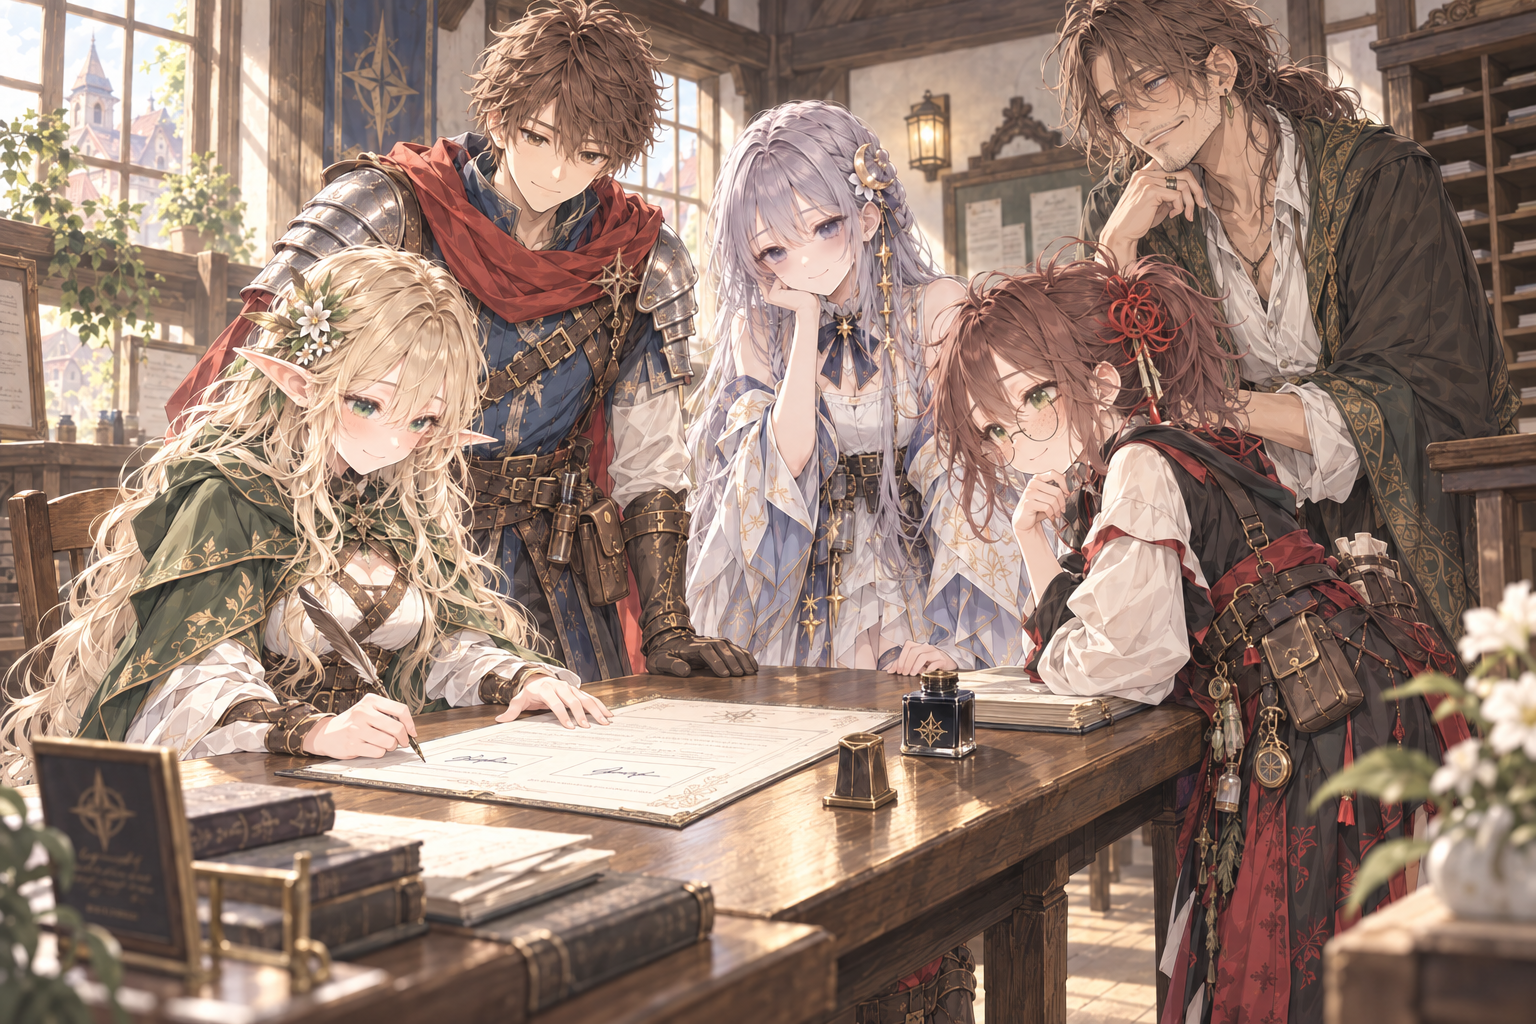
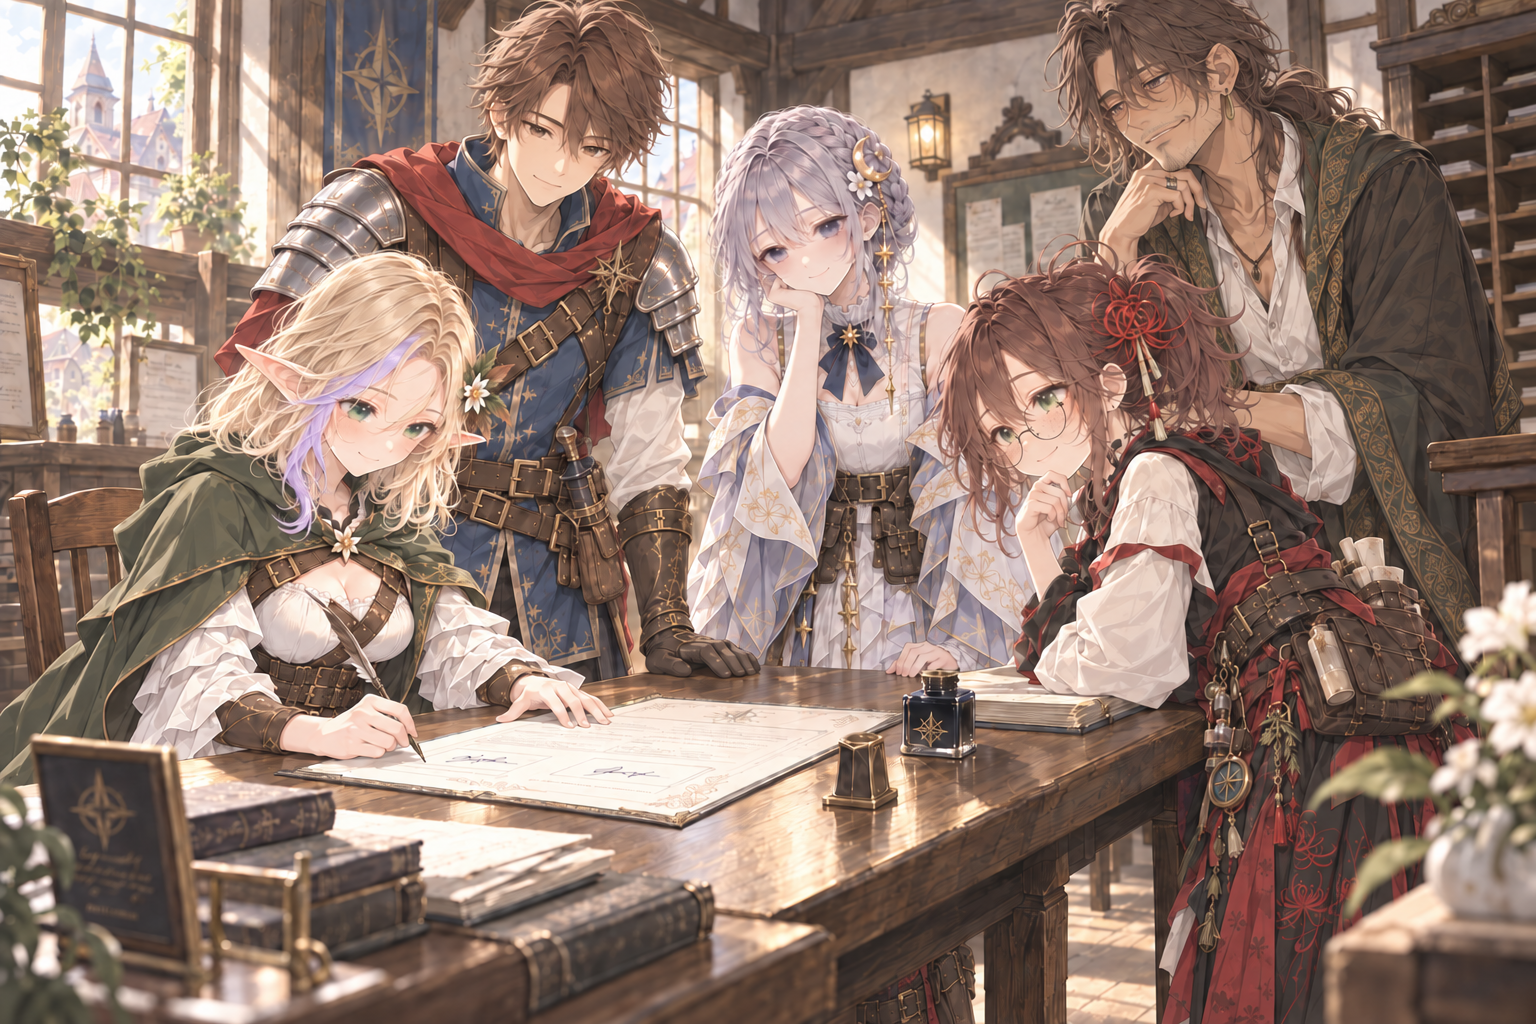
Refresh chapter 4-10 guild formation still to current character designs

diff --git a/docs/art/story-art.md b/docs/art/story-art.md
@@ -19,7 +19,7 @@
 | `lico-protects-seedlings.png` | 4-8・苗を守るリコ | 全身構図01。リコは赤・黒の衣装、メリルの脚に厚みを持たせた版 |
 | `mira-after-all-nighter.png` | 4-4・徹夜明けのミラ | 構図02を保った2026-10-05更新版。新しいまとめ髪の乱れ、服の皺、心配する二人の表情 |
 | `blue-cloth-alley.png` | 4-4・青い布の陰 | v13の構図を保った2026-10-05更新版。短い髪・片肩マント、右手で布、左腕でレオンの右腕を抱き寄せる |
-| `guild-formation.png` | 4-10・旅団結成 | 構図04。署名するアリアを四人が囲む |
+| `guild-formation.png` | 4-10・旅団結成 | 構図04を保った2026-10-05更新版。最新設定画に合わせた五人がアリアの署名を囲む |
 
 ゲームの会話・アルバムへの表示登録は第四章の本編実装時に行う。現時点ではシーンID・表示行を割り当てない。
 

diff --git a/docs/art/story-art-gallery.md b/docs/art/story-art-gallery.md
@@ -101,3 +101,5 @@
 ### 4-10：旅団結成
 
 ![アリアが旅団の登録書へ署名し、レオン、ミラ、フィン、リコが机を囲んで見守る。](../../public/stories/guild-formation.webp)
+
+2026-10-05に五人の最新設定画へ更新。アリアの短い髪と薄紫の一房、レオンの短い片肩マント、ミラ・フィン・リコの髪型と衣装を反映し、五人が同じ書類を囲む構図と署名する動作を保つ。[更新記録](../art-generation/guild-formation-refresh-20261005.json)を参照。
